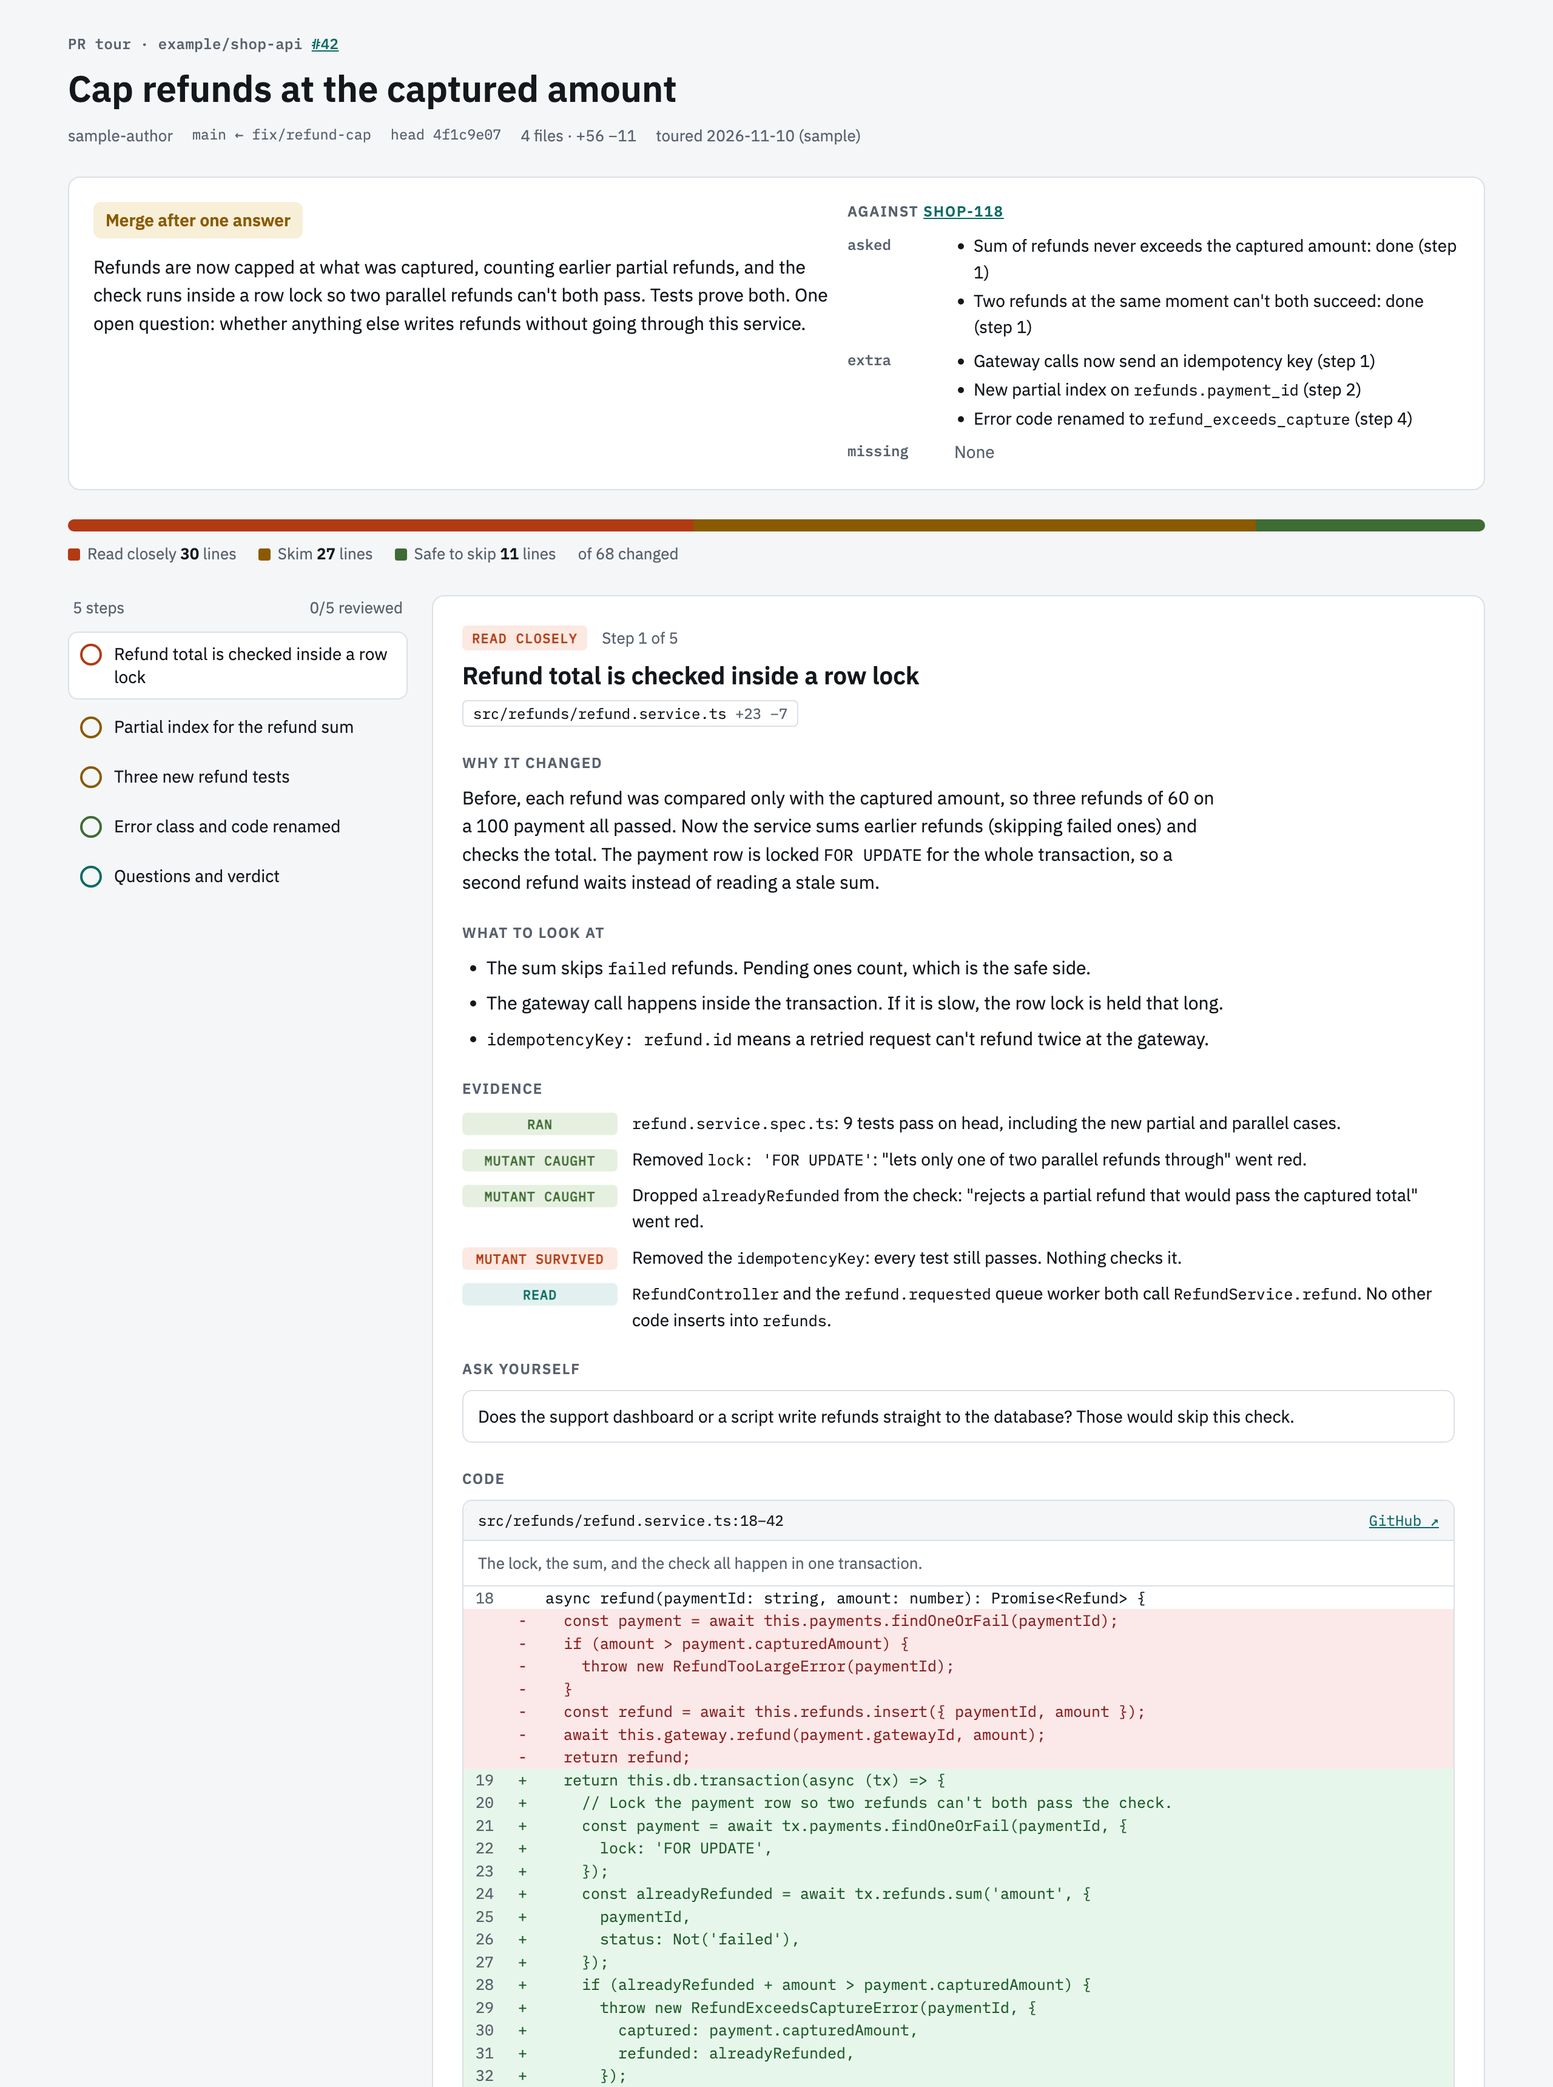
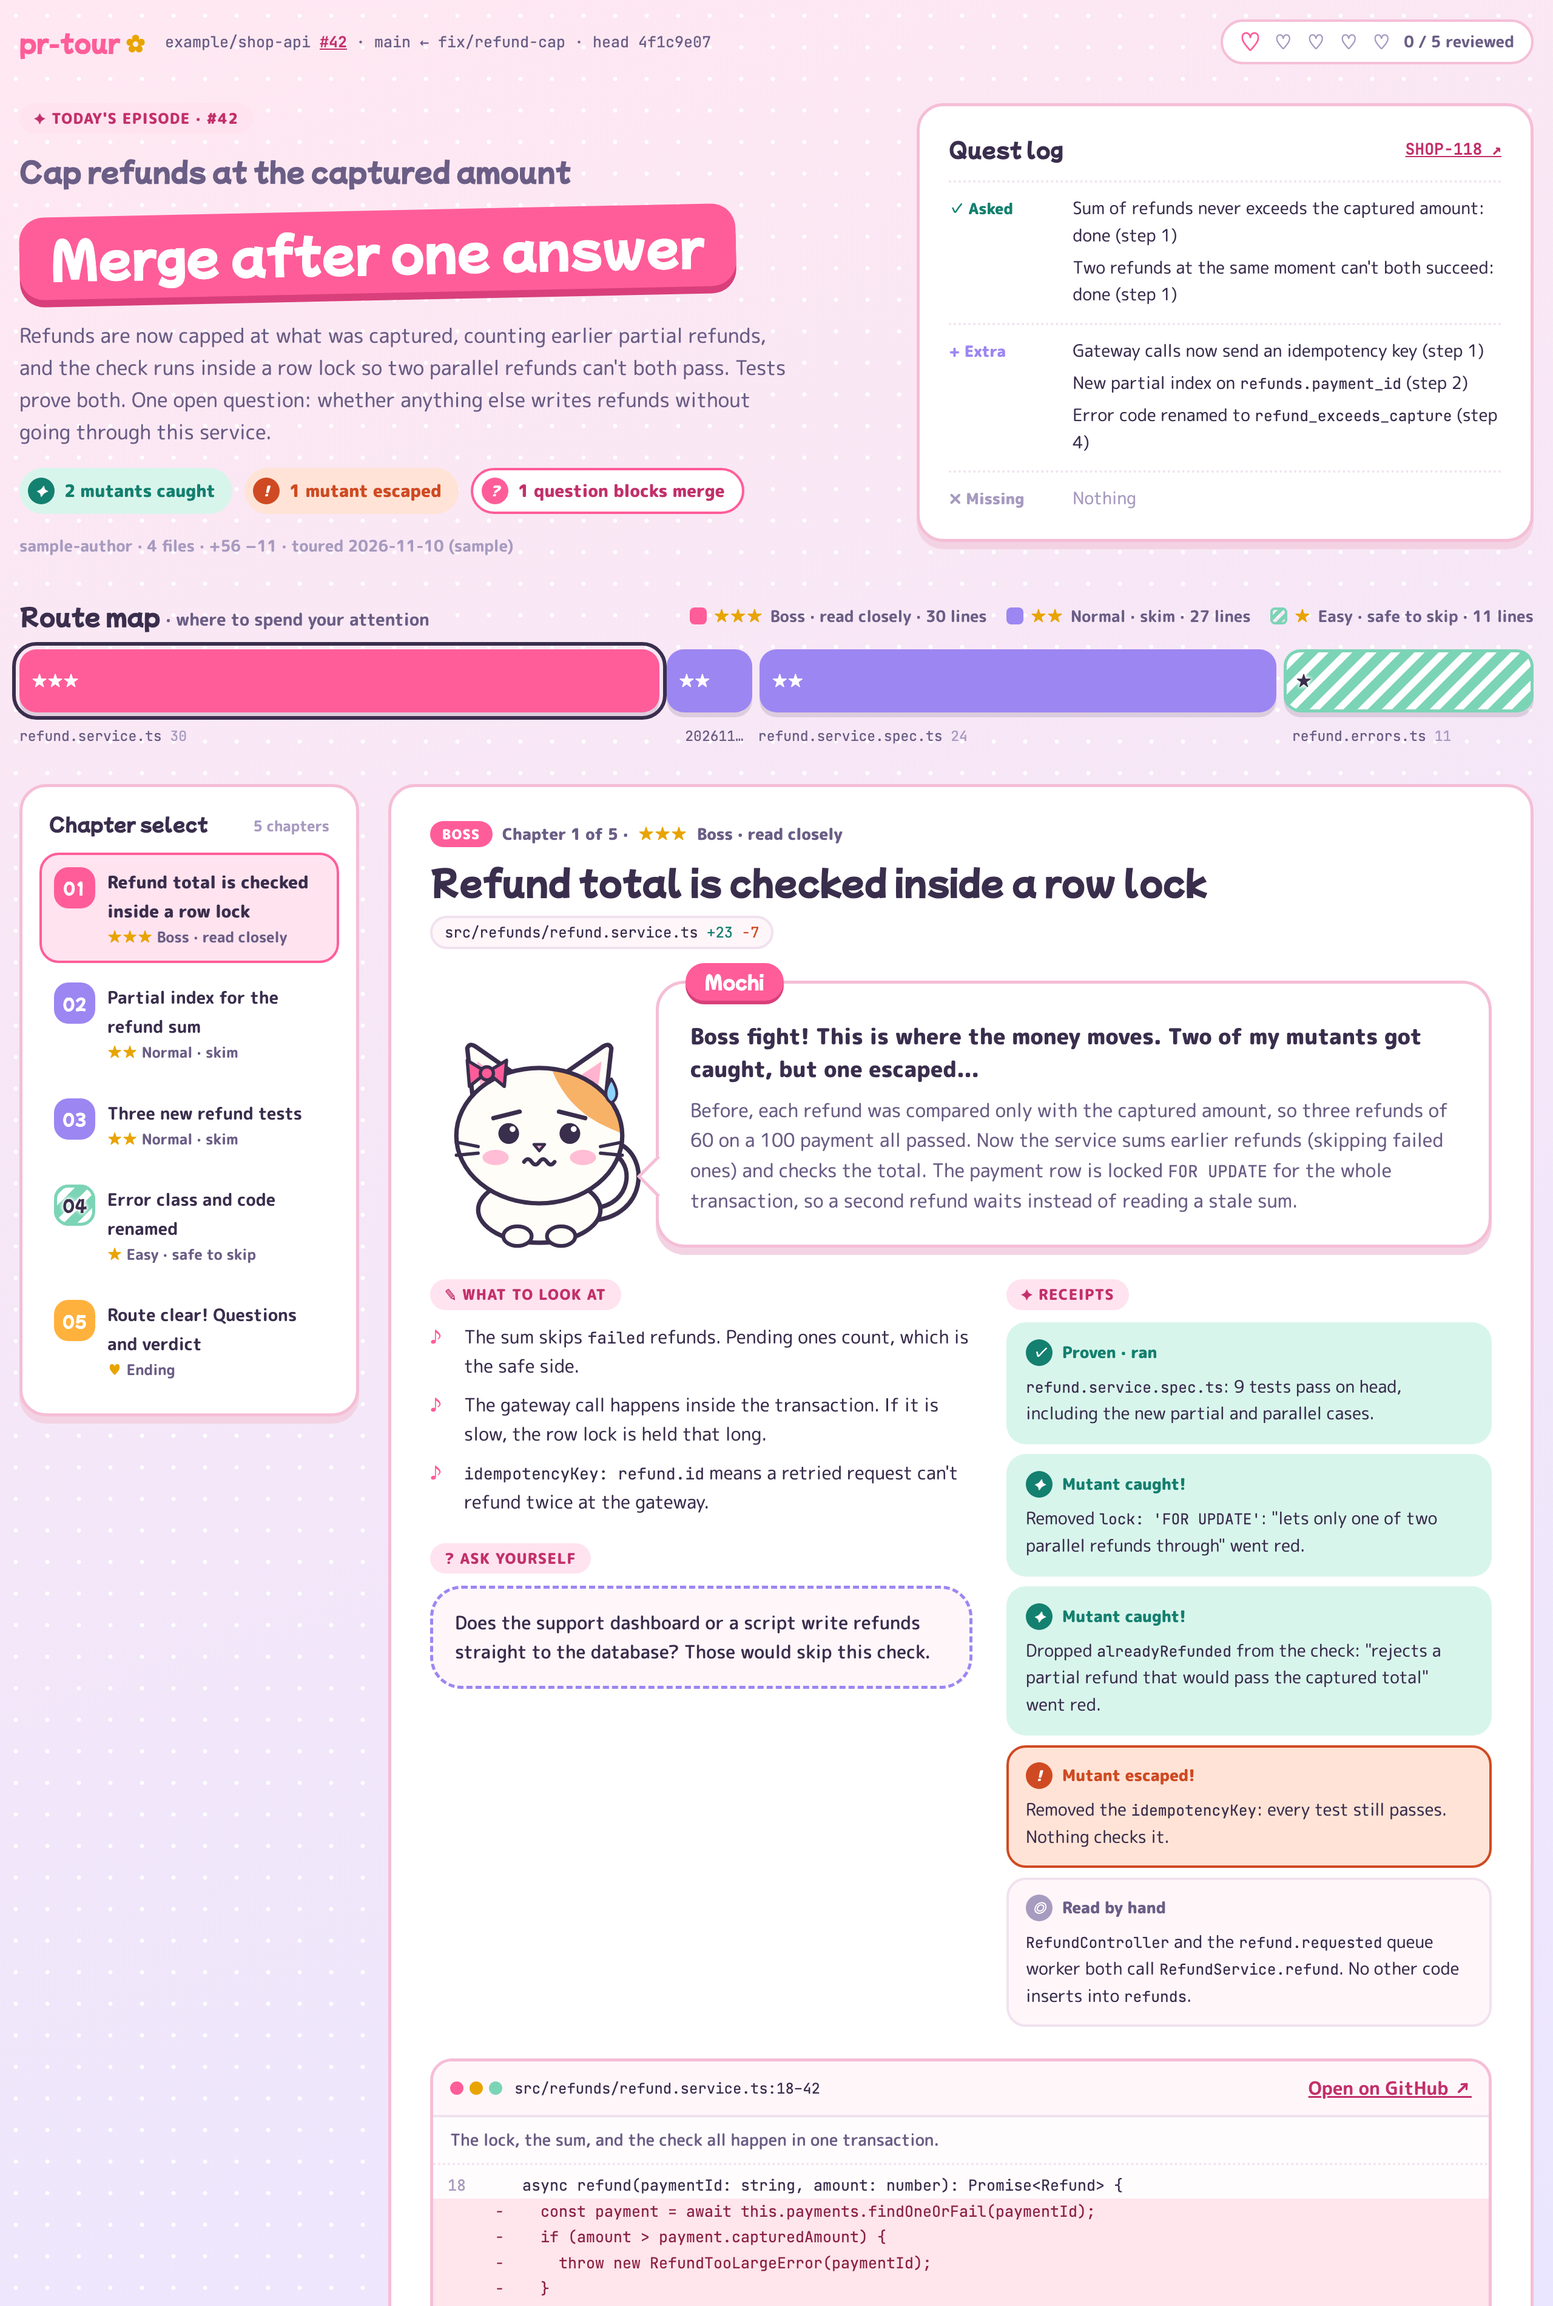
Match the README diagram and screenshots to the new pr-tour look
The diagram and screenshots showed the old page. The SVG is redrawn in
the same palette with Mochi, keeps its light and dark variants, and
renames the evidence tags to match the page. Screenshots are retaken
from the sample, and the README text describes the quest log, route
map and chapters.

Proof: SVG passes xmllint and was rendered in both colour schemes; a
grep for company names finds nothing.

diff --git a/README.md b/README.md
@@ -16,18 +16,18 @@ Reviewing an AI-written PR has two costs: there is a lot of code to read, and th
 
 ### What you get
 
-One page per PR. The top shows the verdict, what the ticket asked for against what the code does, and how many changed lines need close reading. Below that, the tour goes one step at a time, risky changes first. Each step has the evidence, the questions to ask yourself, and the code cut from the real diff.
+One page per PR, styled as a small visual novel. The top shows the verdict, a quest log of what the ticket asked for against what the code does, and a route map of the changed files, rated ★★★ boss (read closely) to ★ easy (safe to skip). Below that, the tour goes one chapter at a time, risky changes first. Mochi the cat opens each chapter and explains why the code changed, and her face follows the evidence: worried when a mutant escaped, happy when the tests caught it. Each chapter has the receipts, the questions to ask yourself, and the code cut from the real diff.
 
 <picture>
   <source media="(prefers-color-scheme: dark)" srcset="docs/pr-tour-dark.png">
-  <img alt="A pr-tour page: verdict and ticket check at the top, a bar of lines to read closely, skim or skip, then the first step with its evidence tags and the diff" src="docs/pr-tour-light.png">
+  <img alt="A pr-tour page: the verdict ribbon and quest log at the top, a route map of files rated by difficulty, then chapter one, where a worried Mochi the cat explains the change beside its receipts and the diff" src="docs/pr-tour-light.png">
 </picture>
 
-The last step collects the questions only a person can answer, marks the ones that block the merge, and lists the test gaps the mutation checks found.
+The last chapter collects the questions only a person can answer, marks the ones that block the merge, and lists the escaped mutants: the test gaps the mutation checks found.
 
 <picture>
   <source media="(prefers-color-scheme: dark)" srcset="docs/pr-tour-wrap-dark.png">
-  <img alt="The wrap-up step of a pr-tour page: one blocking question, one open question, and a test gap" src="docs/pr-tour-wrap-light.png">
+  <img alt="The last chapter of a pr-tour page: a happy Mochi, one blocking question, one side question, and an escaped mutant" src="docs/pr-tour-wrap-light.png">
 </picture>
 
 The screenshots use a made-up sample PR, [`pr-tour/example`](pr-tour/example). Build it yourself with:
